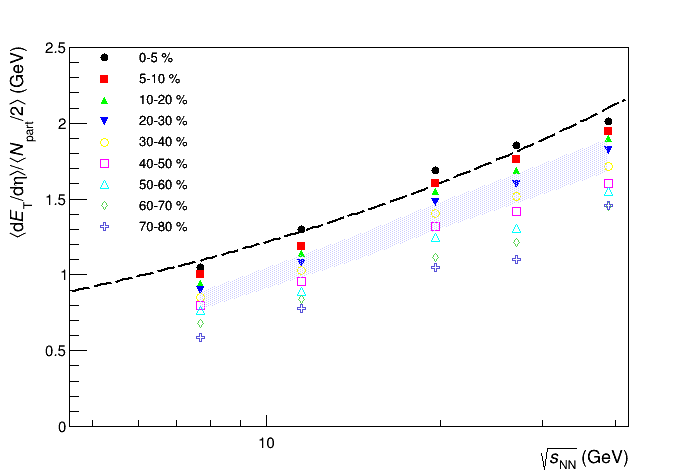
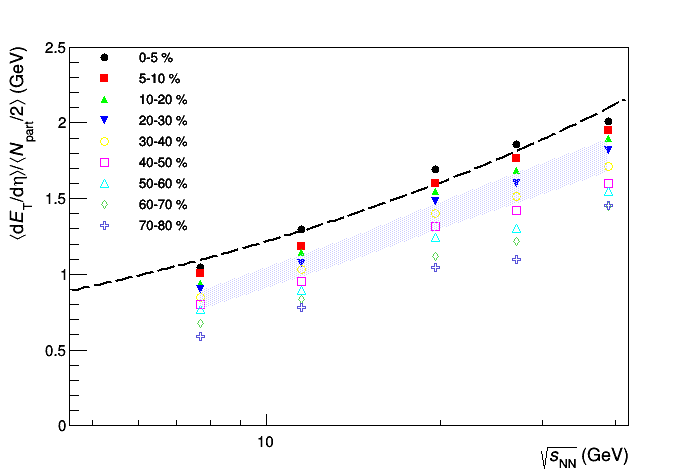
edited figures for clarity

diff --git a/publication/Biswas/chapters/chapter-6.tex b/publication/Biswas/chapters/chapter-6.tex
@@ -24,13 +24,13 @@ Present results and comparisons to Adare et al.....
 	\begin{figure}[h]
 	  \centering
 	  \includegraphics[width=5.5in]{{figures/finalStacked/dETdEtaOverNpartBy2SumEn39.0s}.png}
-	  \caption{$(dE_{T}/d\eta)/0.5N_{part}$ at midrapidity as a function of ${N_{part}}$ for different centralities.}\label{fig:dETdEtaOverNpartBy2SumEn}
+	  \caption{$(dE_{T}/d\eta)/0.5N_{part}$ at midrapidity as a function of ${N_{part}}$ for different collision energies.}\label{fig:dETdEtaOverNpartBy2SumEn}
 	\end{figure}
 	
 	\begin{figure}[h]
 	  \centering
 	  \includegraphics[width=5.5in]{{figures/finalStacked/dETdEtaOverdNchdEtaSumEn39.0s}.png}
-	  \caption{$(dE_{T}/d\eta)/(dN_{ch}/d\eta)$ at midrapidity as a function of ${N_{part}}$ for different centralities.}\label{fig:dETdEtaOverdNchdEtaSumEn}
+	  \caption{$(dE_{T}/d\eta)/(dN_{ch}/d\eta)$ at midrapidity as a function of ${N_{part}}$ for different collision energies.}\label{fig:dETdEtaOverdNchdEtaSumEn}
 	\end{figure}
 
 % cross-check plots: rapidity
@@ -50,13 +50,13 @@ Present results and comparisons to Adare et al.....
 	\begin{figure}[h]
 	  \centering
 	  \includegraphics[width=5.5in]{{figures/finalStacked/dETdyOverNpartBy2SumEn39.0s}.png}
-	  \caption{$(dE_{T}/dy)/0.5N_{part}$ at midrapidity as a function of ${N_{part}}$ for different centralities.}\label{fig:dETdyOverNpartBy2SumEn}
+	  \caption{$(dE_{T}/dy)/0.5N_{part}$ at midrapidity as a function of ${N_{part}}$ for different collision energies.}\label{fig:dETdyOverNpartBy2SumEn}
 	\end{figure}
 	
 	\begin{figure}[h]
 	  \centering
 	  \includegraphics[width=5.5in]{{figures/finalStacked/dETdyOverdNchdySumEn39.0s}.png}
-	  \caption{$(dE_{T}/dy)/(dN_{ch}/dy)$ at midrapidity as a function of ${N_{part}}$ for different centralities.}\label{fig:dETdyOverdNchdySumEn}
+	  \caption{$(dE_{T}/dy)/(dN_{ch}/dy)$ at midrapidity as a function of ${N_{part}}$ for different collision energies.}\label{fig:dETdyOverdNchdySumEn}
 	\end{figure}
 
 % comparison with Adare et al.

diff --git a/stackFinalPlots.C b/stackFinalPlots.C
@@ -126,7 +126,7 @@ for(int graphInd = 2; graphInd < 4; graphInd++) // two different npart graphs
 		g1->SetMarkerSize(1);
 		if (enInd == 0) g1 -> Draw("AP");
 		g1->SetMarkerColor(1+enInd); g1 -> SetLineColor(1+enInd);
-		g1 -> SetMarkerStyle(20+enInd);
+		g1 -> SetMarkerStyle(20+enInd); g1 -> SetLineStyle(9-enInd*2);
 		//c1 -> SetLogx();
 		g1 -> Draw("P");
 		g1 -> SetName("g1");

diff --git a/stackFinalPlots_y.C b/stackFinalPlots_y.C
@@ -93,7 +93,7 @@ for(int graphInd = 2; graphInd < 4; graphInd++) // two different npart graphs
 		g1->SetMarkerSize(1);
 		if (enInd == 0) g1->Draw("AP");
 		g1->SetMarkerColor(1+enInd); g1 -> SetLineColor(1+enInd);
-		g1 -> SetMarkerStyle(20+enInd);
+		g1 -> SetMarkerStyle(20+enInd); g1 -> SetLineStyle(9-enInd*2);
 		//c1 -> SetLogx();
 		g1 -> Draw("P");
 		g1 -> SetName("g1");
